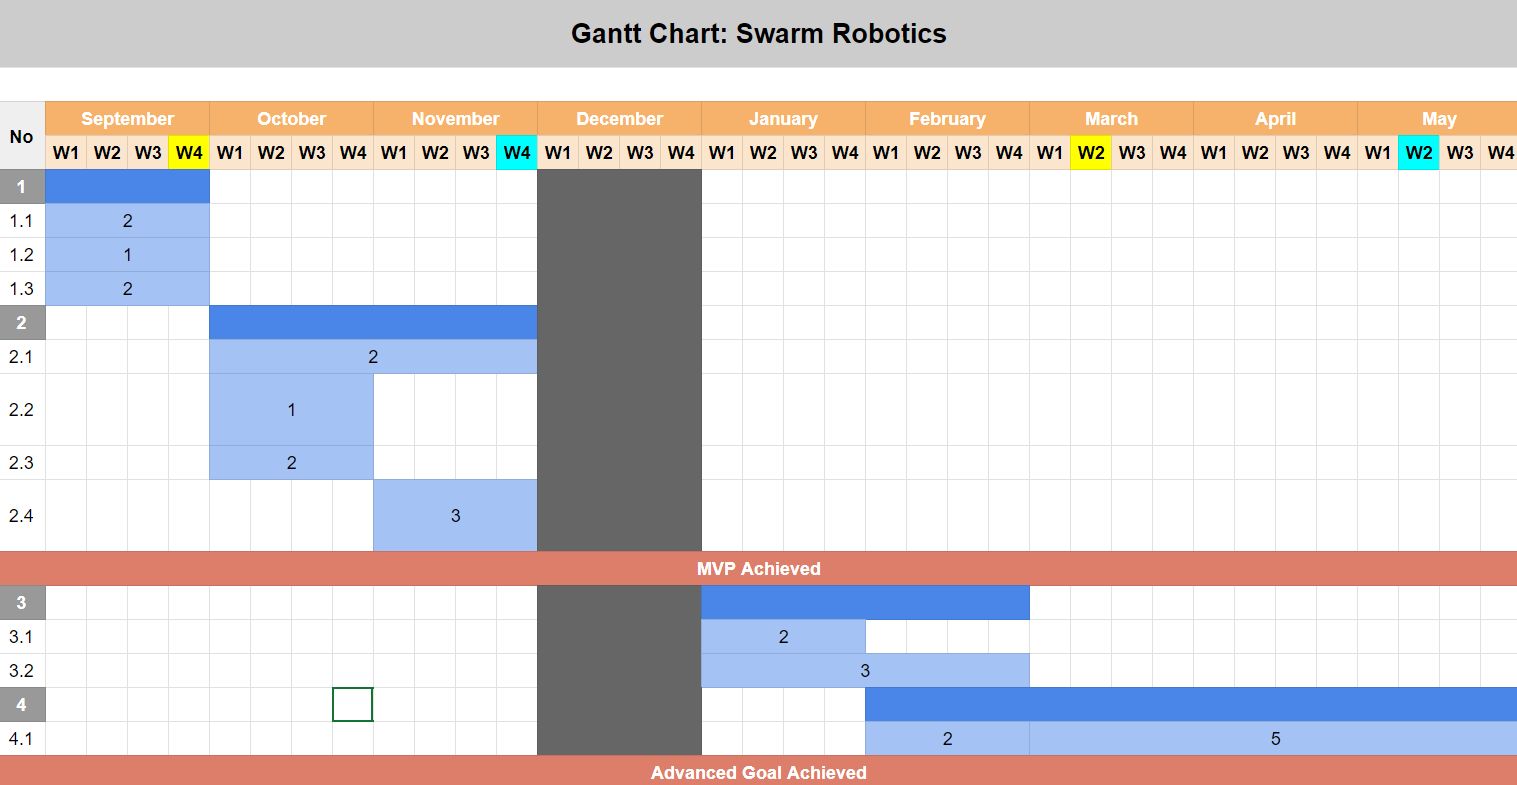
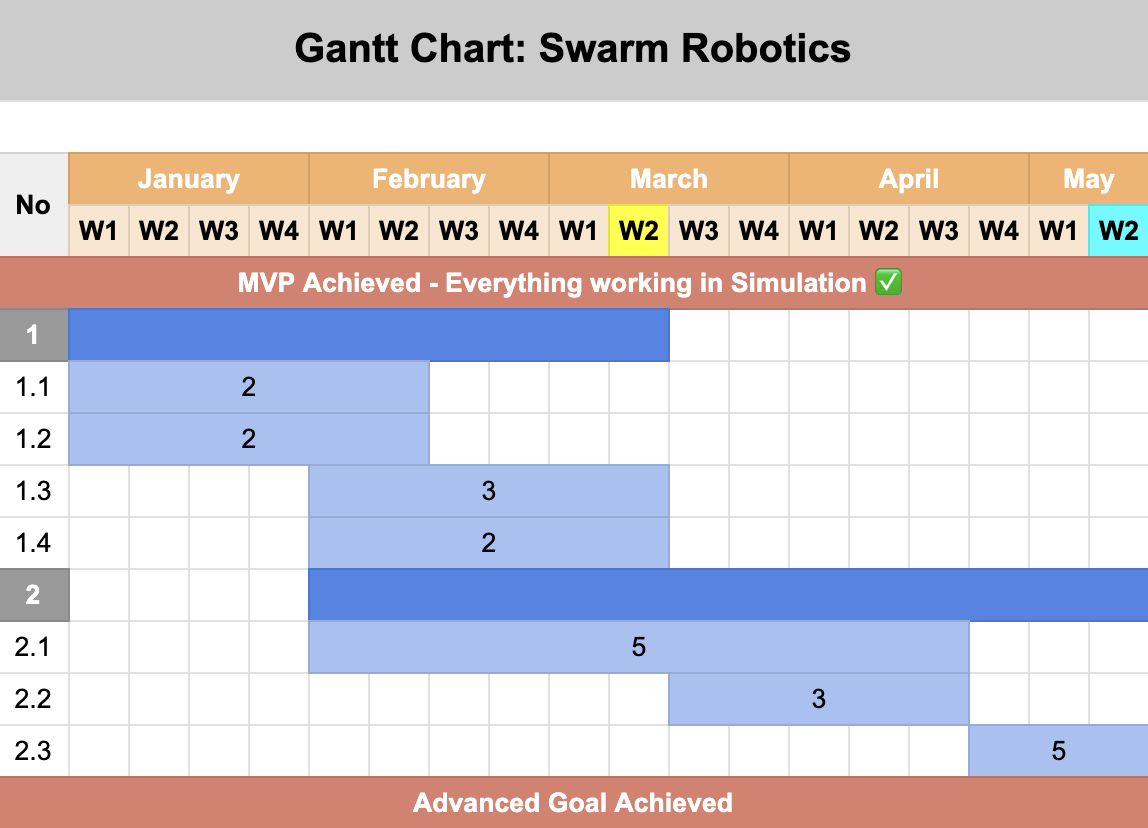
fix: updated project timeline and workload chapters

diff --git a/reports/final_project_proposal/chapters/timeline.tex b/reports/final_project_proposal/chapters/timeline.tex
@@ -1,19 +1,19 @@
 \chapter{Project Planning and Timeline}
 
 \paragraph*{}
-For project planning, we have divided the workload into four phases: two for the first semester and two for the second semester. The time allocated for each task is detailed in the attached Gantt Chart, which also specifies the number of group members assigned to each task.
+As we have already achieved our Minimum Viable Prototype in a simulation during the previous semester, we are able to allocate the workload into two phases. The time period and the number of people allocated to the tasks are listed in the attached Gantt Chart (Figure \ref{fig:Project Gantt Chart}).
 
 \paragraph*{}
-During the first phase, we will focus on simulating our fundamental components: communication, object detection, and SLAM. The communication aspect will explore how robots in a swarm coordinate with one another. Object detection will be implemented using computer vision, and SLAM will have a basic implementation as a proof-of-concept. These simulations will be conducted under the assumption that robots can communicate effectively. All simulations will be conducted using Webots, a robotic simulation platform.This phase is scheduled to take one month.
+During the first phase, our overall goal is to prepare for the hardware implementation, following the success of our previous swarm simulation. There are four major milestones for this phase: \textbf{Communication}, \textbf{SLAM in Simulation}, \textbf{Coordinated Gripping and Formation}, \textbf{and Object Detection}. 
 
 \paragraph*{}
-In the second phase, we will begin integrating hardware by incorporating simple movement. Additionally, we will improve our SLAM implementation. Our primary milestones include testing SLAM in two different environments and implementing an enhanced version of SLAM, such as C-SLAM. These tasks will be undertaken in parallel and are expected to take one month. Once the three group members working on SLAM complete their tasks, they will attempt to combine the individual modules from the first phase into a single simulation. Achieving this integration will result in our Minimum Viable Prototype. This phase aims to be completed by the end of the first semester.
+For \textit{communication}, we will work on implementing communication, with the target being successful data transmission and acknowledgements between three swarm members. For \textit{SLAM in Simulation}, we are planning to implement either Graph-SLAM or Cartographer in our system to perform localization and mapping. For \textit{Coordinated Gripping and Formation}, this comprises the gripper design, and a robust and resilient path finding algorithm, with the ability to avoid obstacles and collisions within the swarm. For \textit{Object Detection}, using both camera and Lidar to perform object detection and measurements is required. Additionally, pose estimation will be included in that milestone.
 
 \paragraph*{}
-The second semester will focus on gripping and advanced movement, including robot formation. The major milestones for this phase include coordinated gripping, which will test the feasibility of a static gripper for the upcoming sliding movement, and robot formation, which will involve the robots moving together to form a cohesive unit. This phase aims to ensure seamless movement after an object has been gripped.
+Throughout the second phase, we will aim to combine the whole system to be one single swarm system. The major milestones for the second phase are: \textbf{Hardware}, \textbf{Movement after Gripping}, and \textbf{Testing and Evaluation}.
 
 \paragraph*{}
-The final phase will integrate all the functional components developed in simulation with actual robotic hardware. This phase is scheduled to start in February and continue until the project’s completion. Successfully completing this phase will achieve our advanced project goal and ensure that all components function seamlessly in the real world.
+\textit{Hardware} will be worked on in parallel with a lot of the prior steps, since our main focus for this semester is the hardware integration of the swarm for practical demonstration purposes. \textit{Movement after Gripping} is the action of the swarm after they have latched onto an object. To be precise, it is the coordinated movement to a specific location alongside the grabbed object. Finally, \textit{Testing and Evaluation} will be performed. In this duration, we will perform evaluations catered to our design criteria to evaluate whether our swarm system meets our objectives or not. This is a process that will yield feedbacks and eventually offer rooms for improvement for the completed swarm system.
 
 \begin{figure}
     \centering
@@ -23,26 +23,17 @@ The final phase will integrate all the functional components developed in simula
 \end{figure}
 
 \begin{enumerate}
-    \item Simulation
+    \item Preparation for Hardware Implementation
     \begin{enumerate}[label=1.\arabic*]
         \item Communication in the swarm
-        \item Object detection using Computer Vision (CV)
-        \item Simple Simultaneous Localization and Mapping (SLAM)
+        \item Simple Simultaneous Localization and Mapping (SLAM) in Simulation
+        \item Coordinated Gripping and Formation
+        \item Object detection
     \end{enumerate}
-    \item Building the Minimum Viable Prototype (MVP)
+    \item Moving Towards a Complete Swarm
     \begin{enumerate}[label=2.\arabic*]
-        \item Simple movement with hardware
-        \item SLAM in two environments
-        \item Improved SLAM
-        \item Combine individual modules in simulation
-    \end{enumerate}
-    \item Coordinated movement with object interactions
-    \begin{enumerate}[label=3.\arabic*]
-        \item Coordinated gripping with static grippers
-        \item Assume swarm formation
-    \end{enumerate}
-    \item Moving towards the advanced goal
-    \begin{enumerate}[label=4.\arabic*]
-        \item Combine everything in hardware
+        \item Hardware
+        \item Movement after Gripping
+        \item Testing and Evaluation
     \end{enumerate}
 \end{enumerate}

diff --git a/reports/final_project_proposal/chapters/workload.tex b/reports/final_project_proposal/chapters/workload.tex
@@ -1,13 +1,10 @@
 \chapter{Project Contribution per Student}
 
 \paragraph*{}
-In the first phase, the project tasks are divided among the group members to ensure a focused effort on simulating the fundamental components. Two group members will concentrate on developing the communication aspect, ensuring that the robots can coordinate and communicate effectively within the swarm. Simultaneously, one member will focus on object detection using computer vision techniques, while another two members tackle the basic implementation of SLAM (Simultaneous Localization and Mapping). This phase is scheduled to span from October to early November.
+In the first phase, from January to early March of the second semester, the focus is on more advanced capabilities from a practical standpoint, including communication in the swarm, more specifically, between the Jetsons. Two group members will work on this task with the ideal target being communication between three members of the swarm over Wifi. Alongside, Simultaneous Localization and Mapping in the Simulation will also be developed, with the task being allocated to two group members. The goal for these tasks is to allow the robots to adapt to the infinite possibilities of the environment, as well as coordinate to eliminate redundancies in the swarm's intended functionalities, such as in repeated mapping scenarios.
 
 \paragraph*{}
-Moving into the second phase, which runs from early November to early December, the project transitions to integrating hardware and enhancing SLAM functionalities. Initially, all group members will collaborate on incorporating simple movement into the hardware, ensuring a robust foundation for the next tasks. One group member will then test the SLAM implementation in two different environments to verify its effectiveness. Concurrently, two members will work on improving SLAM by developing a more advanced version, such as C-SLAM. After completing these tasks, the dedicated SLAM team, composed of three members, will integrate the individual modules from the first phase into a cohesive simulation, aiming to achieve a Minimum Viable Prototype by the semester's end.
+The first phase also includes gripping mechanisms and coordinated movement. Three group members will work on the coordinated gripping task, preparing the static gripper for future sliding movements, as well as developing strategies for a robust robot path planning algorithm. Meanwhile, another two members will integrate camera with Lidar in order to perform object detection, as well as implement pose estimation for object detection of varying targets
 
 \paragraph*{}
-In the third phase, from January to early March of the second semester, the focus shifts to more advanced capabilities, including gripping mechanisms and coordinated movement. Two group members will work on the coordinated gripping task, preparing the static gripper for future sliding movements. Meanwhile, another three members will develop strategies for robot formation, ensuring that the robots can move together seamlessly after gripping objects.
-
-\paragraph*{}
-Finally, the fourth phase, starting in March and extending to early May, involves putting all the functional simulation components together with the actual robotic hardware. During this period, all group members will collaborate intensively to integrate these components, ensuring they work together smoothly in the real world.
+The second phase, ranging from February to early May, includes moving towards a complete swarm system, with the prerequisites being hardware, movement after gripping, and testing and evaluation. We consider hardware to be one major overhead, which we have to continuously work on; thus, it will be collaboratively completed by all our group members. Together with this, methods towards collective movement together with the gripped object will be considered by three group members. Our group plans to have this completed by the middle of April, to allocate some time for further testing and evaluation that can help us towards a more complete version of the swarm system, or identify potential flaws for future references. Testing and Evaluation will also be done by all our group members starting from the middle of May.
